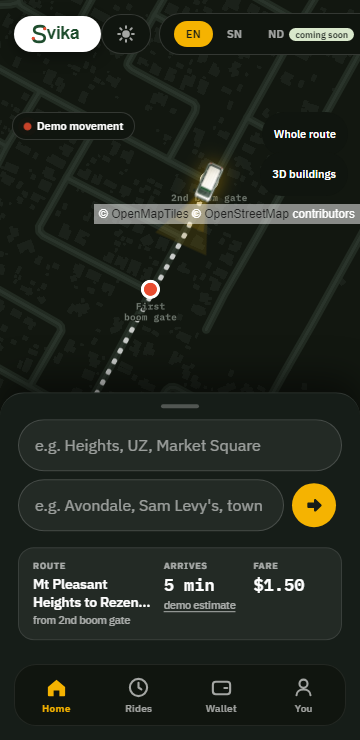
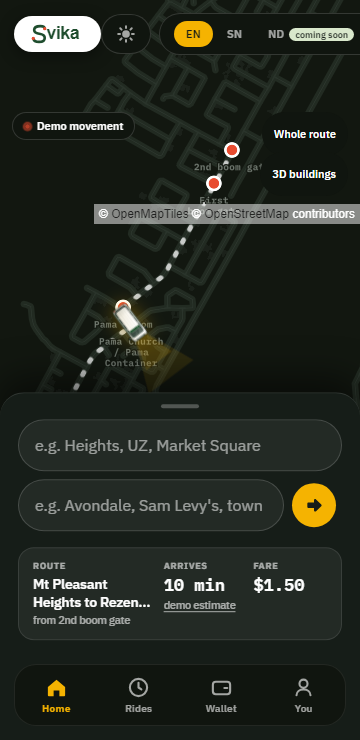
feat(home): the peek is the alert's home for the same trip
Per Mhofu's V1 gate ruling: the floating commute alert hides whenever
the answer peek already carries the same trip (matched by stop pair),
and still floats when it says something different, like the usual
outbound kombi while the peek offers the ride back. commute.spec
reworked to prove both sides plus the fresh rider seeing neither;
answer home evidence recaptured to match.

diff --git a/apps/web/e2e/commute.spec.ts b/apps/web/e2e/commute.spec.ts
@@ -1,15 +1,18 @@
-// Spine 2 commute alerts: Takunda (seeded two week commute, pref on) gets
-// the alert with live minutes and a basis label; a rider with no pattern and
-// no pref never sees one. Takunda is a demo persona, so the "is it the usual
-// time" window is waived and the alert plays on any stage clock (see
-// alertPattern); the CAT hour it runs at is annotated so the recording shows
-// it was not the mined morning window.
+// Spine 2 commute alerts, after the V1 gate ruling (Mhofu, 2026-07-23):
+// when the answer peek already carries the same trip, the peek is the
+// alert's home and the floating alert hides. It still floats when it says
+// something different (the usual outbound kombi while the peek offers the
+// ride back), and a rider with no pattern and no pref never sees either.
+// Takunda's fixture history is rebuilt around now to stage each moment,
+// exactly as the seed does, and restored after.
 import { test, expect, type Page } from "@playwright/test";
 import { loginAs } from "./helpers";
+import { rebuildTakundaHistory } from "./takunda-fixtures";
 
-/** Harare (CAT, UTC+2) hour on the machine the server shares. */
-function catHour(): number {
-  return new Date(Date.now() + 2 * 60 * 60_000).getUTCHours();
+/** Harare (CAT, UTC+2) minutes past midnight on the machine the server shares. */
+function catMinuteOfDay(): number {
+  const shifted = new Date(Date.now() + 2 * 60 * 60_000);
+  return shifted.getUTCHours() * 60 + shifted.getUTCMinutes();
 }
 
 const TAKUNDA_EMAIL = "demo.takunda@svika.app";
@@ -22,42 +25,62 @@ async function loginTakunda(page: Page): Promise<void> {
 }
 
 test.describe("commute alerts", () => {
-  test("Takunda gets his alert as the usual kombi approaches", async ({ page }) => {
+  test("inside the usual window the peek is the alert's home and the float hides", async ({
+    page,
+  }) => {
+    await rebuildTakundaHistory(0);
     await loginTakunda(page);
     await page.goto("/app");
-    const alert = page.getByTestId("commute-alert");
-    await expect(alert).toBeVisible();
-    await expect(alert).toContainText("Your usual kombi is close");
-    await expect(alert.locator(".commute-alert-eta")).toContainText("min");
-    // honesty: the number always says what it stands on
-    await expect(alert).toContainText(/demo estimate|recorded ride/);
+
+    // the answer peek carries the trip, the live minutes and the honest basis
+    const answer = page.getByTestId("peek-answer");
+    await expect(answer).toBeVisible();
+    await expect(answer).toContainText("2nd boom gate");
+    await expect(answer).toContainText("Rezende Rank");
+    await expect(answer.getByTestId("peek-stats")).toContainText(/min/);
+    await expect(answer).toContainText(/demo estimate|recorded ride/);
+
+    // same trip: the floating alert stays out of the way (V1 gate ruling)
+    await expect(page.getByTestId("commute-alert")).toHaveCount(0);
   });
 
-  test("the demo alert fires at any time of day, not just the morning window", async ({
+  test("past the window the float returns because it says something different", async ({
     page,
   }, testInfo) => {
-    const hour = catHour();
-    const morning = hour >= 5 && hour < 9;
+    const minute = catMinuteOfDay();
     testInfo.annotations.push({
       type: "stage clock (CAT)",
-      description: `${String(hour).padStart(2, "0")}:xx — ${
-        morning ? "inside" : "OUTSIDE"
-      } the mined morning window`,
+      description: `minute ${minute} of the day`,
     });
-    // whatever the wall clock, a demo persona shows the alert: the window
-    // check is waived for the demo, the ETA and basis label stay real
-    await loginTakunda(page);
-    await page.goto("/app");
-    const alert = page.getByTestId("commute-alert");
-    await expect(alert).toBeVisible();
-    await expect(alert.locator(".commute-alert-eta")).toContainText("min");
-    await expect(alert).toContainText(/demo estimate|recorded ride/);
+    test.skip(minute < 270, "CAT clock too early to stage a passed window today");
+
+    await rebuildTakundaHistory(180);
+    try {
+      await loginTakunda(page);
+      await page.goto("/app");
+
+      // the peek offers the ride back...
+      const answer = page.getByTestId("peek-answer");
+      await expect(answer).toBeVisible();
+      await expect(answer).toContainText("Your ride back");
+
+      // ...while the alert still reports the usual outbound kombi, with
+      // live minutes and the honest basis label, exactly as before
+      const alert = page.getByTestId("commute-alert");
+      await expect(alert).toBeVisible();
+      await expect(alert).toContainText("Your usual kombi is close");
+      await expect(alert.locator(".commute-alert-eta")).toContainText("min");
+      await expect(alert).toContainText(/demo estimate|recorded ride/);
+    } finally {
+      await rebuildTakundaHistory(0);
+    }
   });
 
-  test("a fresh rider never sees an alert", async ({ page }) => {
+  test("a fresh rider never sees an alert or an answer peek", async ({ page }) => {
     await loginAs(page, "RIDER");
     await page.goto("/app");
     await expect(page.getByTestId("home-sheet")).toBeVisible();
     await expect(page.getByTestId("commute-alert")).toHaveCount(0);
+    await expect(page.getByTestId("peek-answer")).toHaveCount(0);
   });
 });

diff --git a/apps/web/src/app/app/page.tsx b/apps/web/src/app/app/page.tsx
@@ -210,6 +210,8 @@ export default async function RiderHome({
   const patterns = mineCommutePatterns(facts, new Date());
 
   let commuteAlert: {
+    fromStopId: string;
+    toStopId: string;
     fromName: string;
     toName: string;
     eta: EtaEstimate;
@@ -219,7 +221,13 @@ export default async function RiderHome({
     if (pattern) {
       const eta = await etaProvider.estimate(pattern.fromStopId, pattern.toStopId);
       if (etaSaysNear(eta.minutes)) {
-        commuteAlert = { fromName: pattern.fromName, toName: pattern.toName, eta };
+        commuteAlert = {
+          fromStopId: pattern.fromStopId,
+          toStopId: pattern.toStopId,
+          fromName: pattern.fromName,
+          toName: pattern.toName,
+          eta,
+        };
       }
     }
   }
@@ -261,6 +269,20 @@ export default async function RiderHome({
         covered: balance >= answerPlan.totalFareCents,
       };
     }
+  }
+
+  // Mhofu's V1 gate ruling (2026-07-23): when the peek already answers with
+  // the same trip, the peek is the alert's home and the floating alert
+  // hides. It still floats when it carries different information (the
+  // outbound kombi while the peek offers the ride back) and for riders
+  // whose peek has no answer.
+  if (
+    commuteAlert &&
+    answer &&
+    commuteAlert.fromStopId === answer.fromStopId &&
+    commuteAlert.toStopId === answer.toStopId
+  ) {
+    commuteAlert = null;
   }
 
   // the peek card (§9): route + arrival + fare, never behind a scroll

diff --git a/apps/web/e2e/v1-answer-home.spec.ts b/apps/web/e2e/v1-answer-home.spec.ts
@@ -42,6 +42,9 @@ test.describe("V1 answer first home", () => {
     await expect(answer).toContainText(/demo estimate|recorded ride/);
     // wallet honesty on the fare cell
     await expect(answer.getByTestId("answer-wallet")).toBeVisible();
+    // gate ruling: the peek is the alert's home for the same trip, so the
+    // floating alert stays hidden here
+    await expect(page.getByTestId("commute-alert")).toHaveCount(0);
 
     // one tap: rebook, land with a live board code on screen
     await waitForHydration(page);
